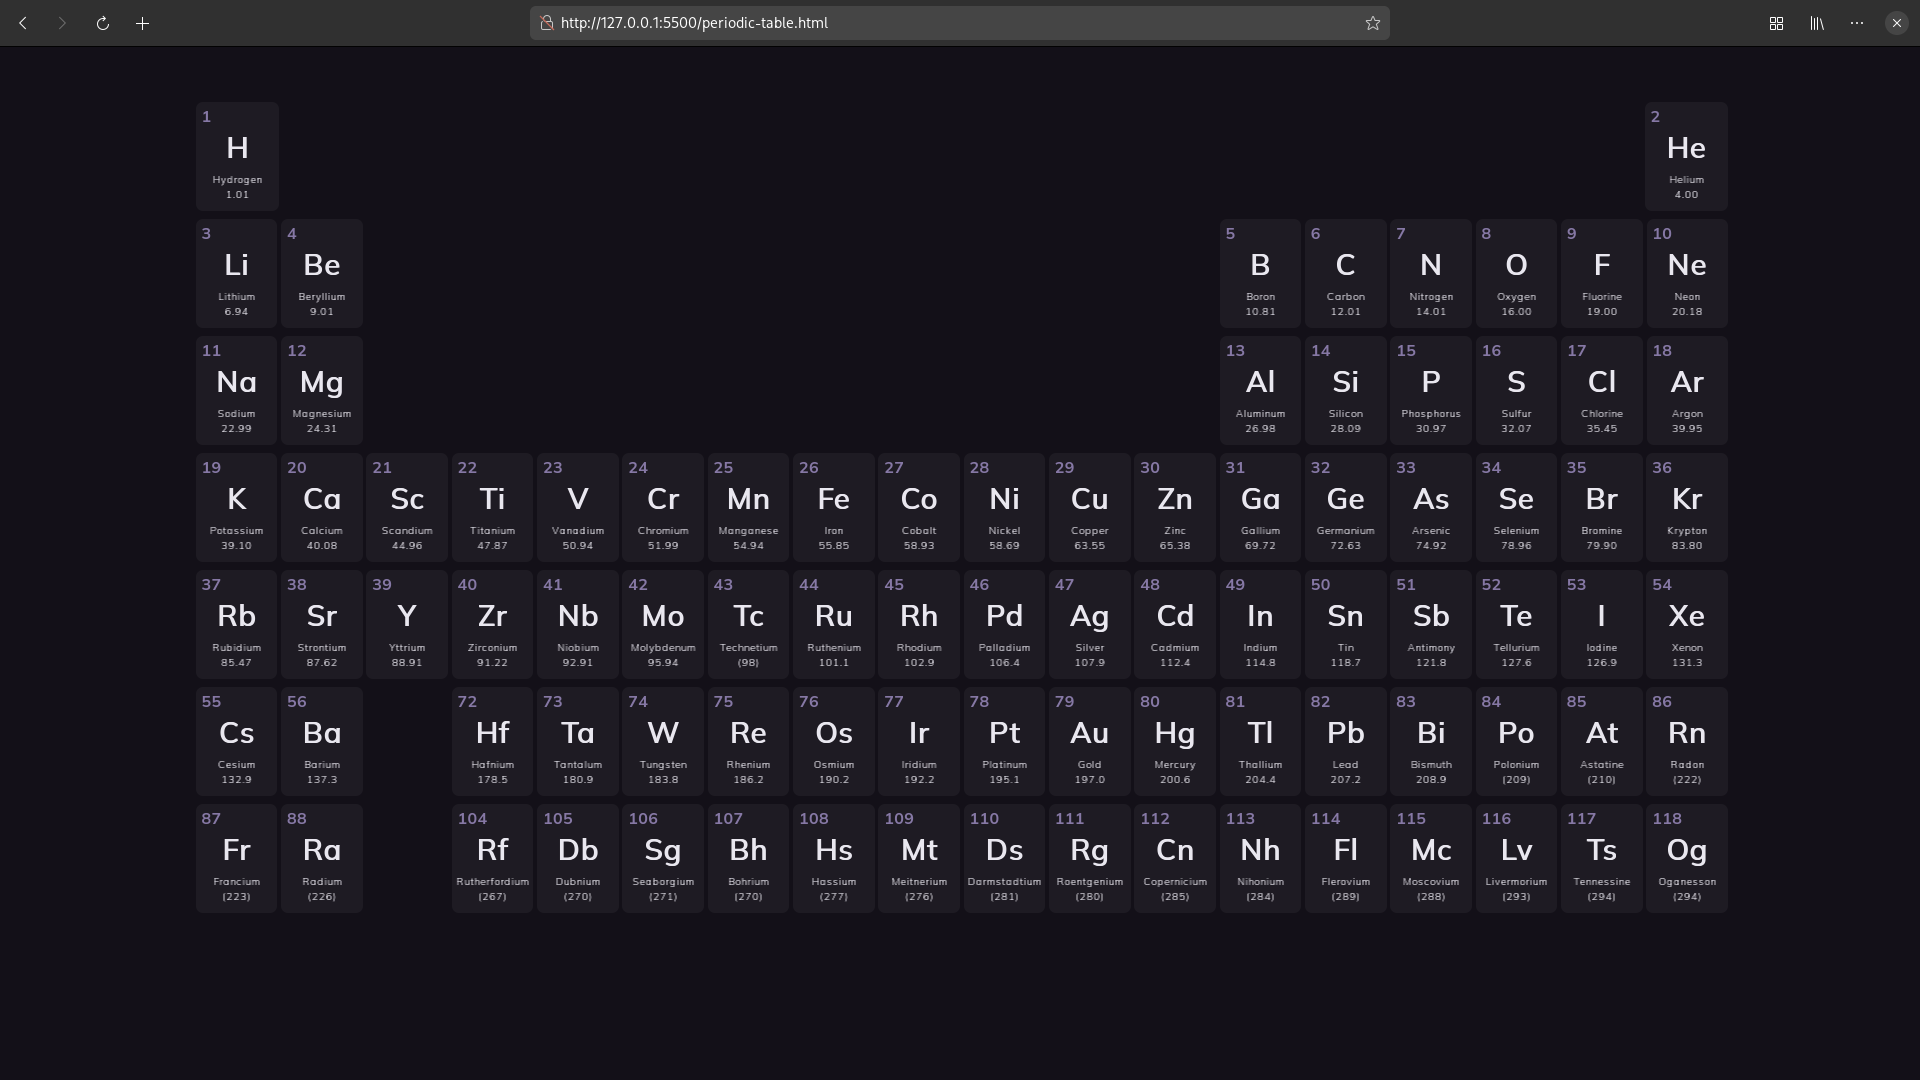
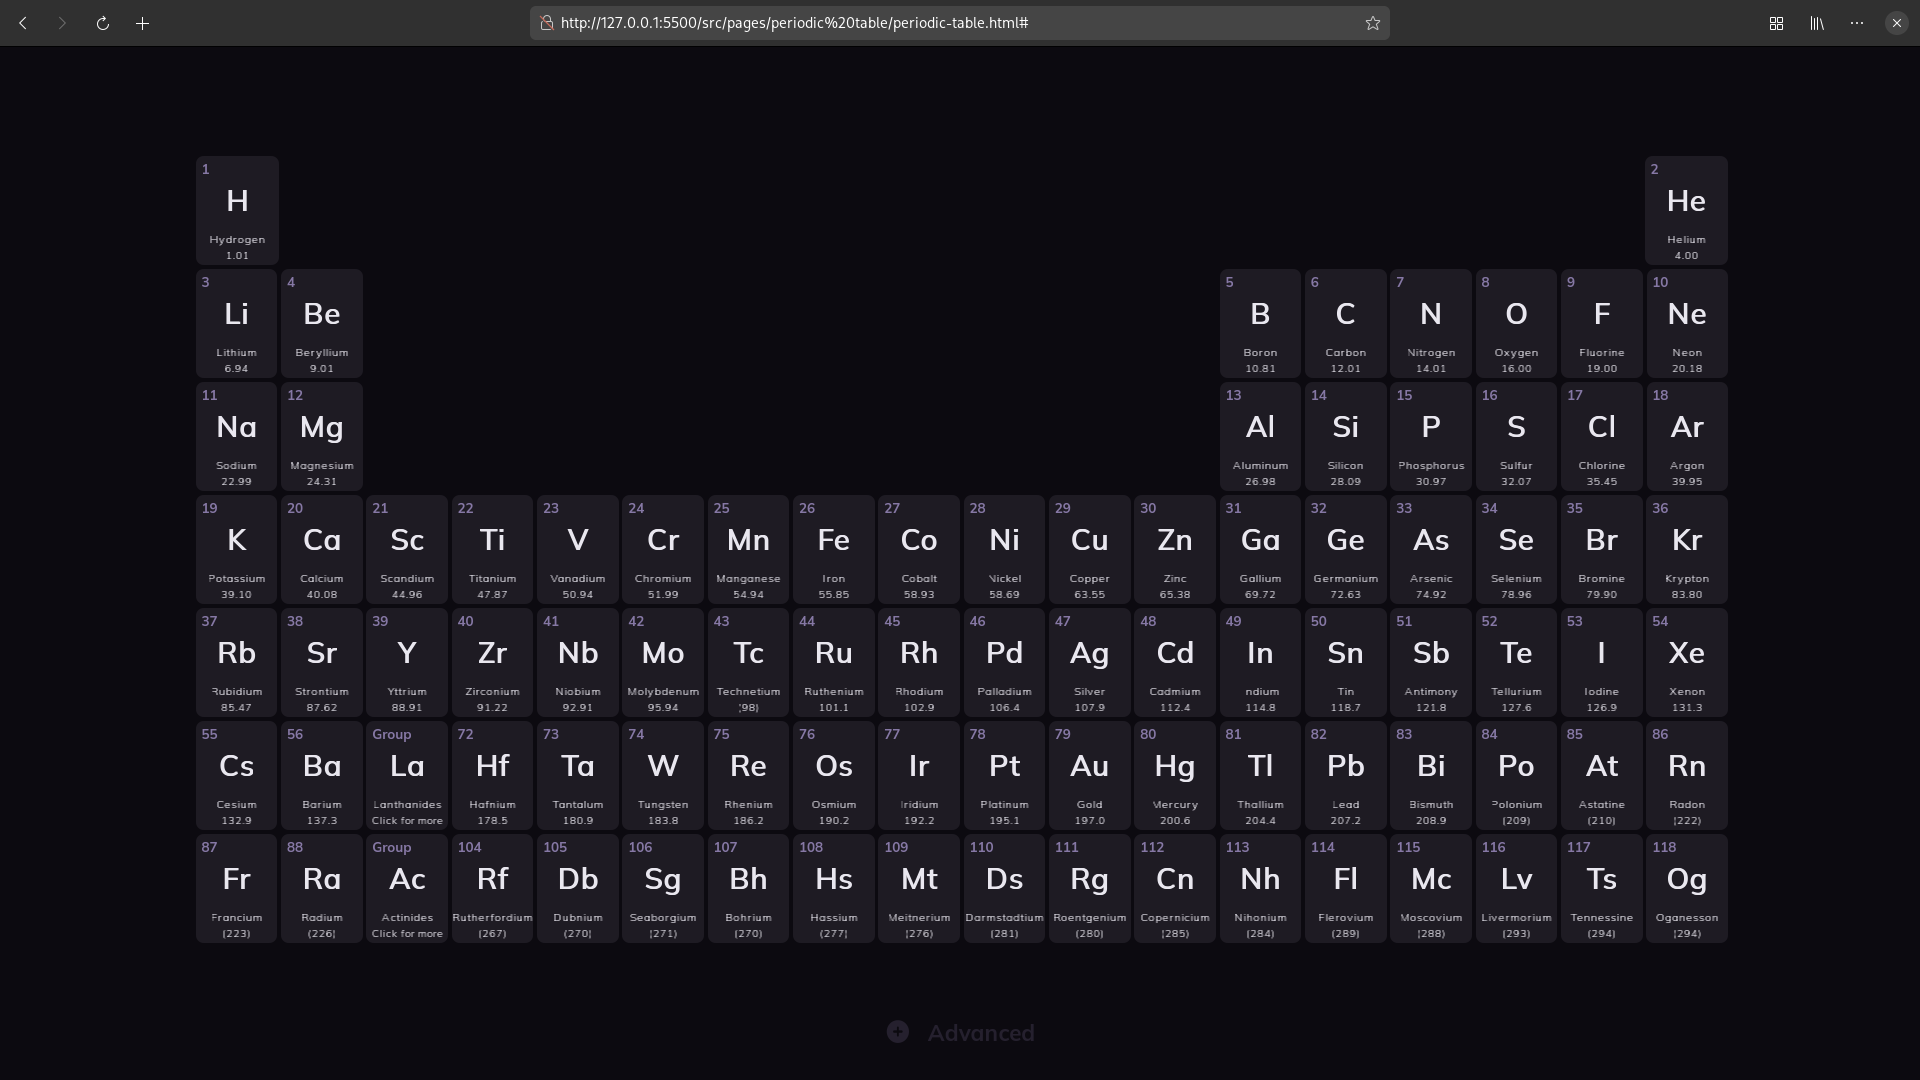
Info page completed

diff --git a/src/pages/info/info.html b/src/pages/info/info.html
@@ -11,27 +11,29 @@
 </head>
 <body>
     <section id="blogPanelL">
-        <div id="blogPanelLLapschoolButton">
+        <a href="../../index.html" id="blogPanelLLapschoolButton">
             <img src="../../images/logo.svg" alt="" id="blogPanelLLapschoolButtonImage">
             <h1 id="blogPanelLLapschoolButtonTitle">Lapschool</h1>
-        </div>
+        </a>
 
         <section id="blogPanelLPosts">
-            <p class="blogPanelLPostButton" onclick="DisplayPost(this)">About</p>
-            <p class="blogPanelLPostButton">Development</p>
-            <p class="blogPanelLPostButton">Socials and Contact</p>
-            <p class="blogPanelLPostButton">Patch Notes</p>
-            <p class="blogPanelLPostButton">FAQ</p>
+            <p class="blogPanelLPostButton active" onclick="DisplayPost(this)">About</p>
+            <p class="blogPanelLPostButton" onclick="DisplayPost(this)">Development</p>
+            <p class="blogPanelLPostButton" onclick="DisplayPost(this)">Socials and Contact</p>
+            <p class="blogPanelLPostButton" onclick="DisplayPost(this)">Patch Notes</p>
 
         </section>
     </section>
     <section id="blogPanelR">
         <h1>About</h1>
-        <p>Lapschool is an opensourced website that allows you to use a verity of tools
+        <p>Lapschool is an opensourced website that allows you to use a variety of tools
             for your school. Many paper tools (ex. Periodic Table) have been digitalized.
-            it is advised to those who use laptops to take notes and don't want to take
-            an piece of paper  with them to every class. Just you, your bag and your laptop
-            and that's it.
+            it is made for those who use laptops to take notes and don't want to take
+            an piece of paper  with them to every class. Just you, your bag and your laptop.
+            That's it.
+        </p>
+        <p>
+            It's completely <strong>free</strong> since is just a website.
         </p>
         <h2>Tools</h2>
         <h3>The Periodic Table</h3>
@@ -41,6 +43,22 @@
             element and the site will display some additional information about that element. I am not a chemist and all data is sourced
             from Wikipedia, so please report any mistakes you find.
         </p>
+        <img src="../../images/toolScreenshots/periodic-table.png" alt="">
+        <h4>Element inspect</h4>
+        <p>
+            Is a feature that allows you to click on an element and it will display some additional
+            things about the element. All elements are supported. All element data is sourced from
+            Wikipedia and shortened / modified by ChatGPT (3.0). Report all mistakes you find.
+        </p>
+        <h4>Advanced Settings</h4>
+        <p>
+            On the bottom screen is a button with additional features you can activate to make the
+            use easier. Settings are saved in the browser storage and will still
+            be applied on page reload.
+        </p>
+
+        <h4>Lanthanides and Actinoids submanu</h4>
+        <p>Display all La and Ac elements. All features are applied.</p>
     </section>
 </body>
 <script src="info.js"></script>

diff --git a/src/pages/info/posts.css b/src/pages/info/posts.css
@@ -1,44 +1,93 @@
 #blogPanelR h1 {
     color: var(--colorText);
 
-    font-family: Mulish;
-    font-size: 5vw;
+    font-family: Mulish-ExtraBold;
+    font-size: 4vw;
 
     width: 100%;
 
     padding-top: 1vh;
+    margin-bottom: 1vh;
+
+    border-bottom: 1px solid var(--colorSecundary);
 }
 #blogPanelR h2 {
     color: var(--colorText);
 
-    font-family: Mulish;
-    font-size: 2.5vw;
+    font-family: Mulish-ExtraBold;
+    font-size: 2vw;
 
     width: 100%;
 
-    padding-top: 1vh;
+    border-bottom: 1px solid var(--colorSecundary);
+
+    padding-top: 2vh;
 }
 #blogPanelR h3 {
     color: var(--colorText);
 
-    font-family: Mulish;
-    font-size: 1.5vw;
+    font-family: Mulish-ExtraBold;
+    font-size: 1.4vw;
 
     width: 100%;
 
-    padding-top: 1vh;
+    padding-top: 2vh;
+}
+#blogPanelR h4 {
+    color: var(--colorText);
+
+    font-family: Mulish;
+    font-size: 1vw;
+    font-weight: 700;
+
+    width: 100%;
+
+    padding-top: 2vh;
+}
+h1 i,
+h2 i,
+h3 i,
+h4 i {
+    font-size: 1vw;
+    color: var(--colorTextOff);
+    font-family: Mulish-ExtraLight;
 }
 #blogPanelR p {
-    color: var(--colorText);
+    color: #b9b8bf;
 
     font-family: Mulish-Light;
     font-size: 1vw;
+    font-weight: 400;
 
     width: 100%;
 
-    padding-bottom: 1vh;
+    padding-bottom: 2vh;
+}
+#blogPanelR li, 
+#blogPanelR ul {
+    color: #b9b8bf;
+
+    font-family: Mulish-Light;
+    font-size: 1vw;
+    font-weight: 400;
+
+    width: 100%;
+
+}
+#blogPanelR strong {
+    font-family: Mulish-ExtraBold;
+
 }
 #blogPanelR img {
+    color: var(--colorText);
+
+    width: 100%;
+
+    font-family: Mulish;
+    font-size: 1vw;
+
+}
+#blogPanelR a {
     color: var(--colorText);
 
     width: 100%;

diff --git a/src/pages/info/info.css b/src/pages/info/info.css
@@ -12,7 +12,7 @@ body {
     margin: 0 0 0 0;
     padding: 0 0 0 0;
 
-    overflow: hidden;
+    overflow-y: hidden;
 
 
     display: inline-flex;
@@ -31,7 +31,8 @@ body {
     height: 7vh;
     width: 80%;
 
-    cursor: default;
+    cursor: pointer;
+    text-decoration: none;
 
 }
 #blogPanelLLapschoolButtonImage {
@@ -56,6 +57,7 @@ body {
 
     font-family: Mulish;
     font-size: 1.3vw;
+    text-decoration: none;
 }
 #blogPanelLPosts {
     width: 80%;
@@ -85,14 +87,33 @@ body {
 
     cursor: pointer;
 }
+.active {
+    color: var(--colorBackground) !important;
+    background-color: var(--colorPrimary) !important;
+
+    cursor: default !important;
+}
+.active:hover {
+    color: var(--colorBackground) !important;
+    background-color: var(--colorPrimary) !important;
+
+    cursor: default !important;
+}
 
 
 
 #blogPanelR {
     position: relative;
-    width: 70vw;
+    width: 60vw;
     height: 90vh;
     margin: auto;
 
     margin-left: 6vw;
+
+    overflow: auto;
+    -ms-overflow-style: none;  /* IE and Edge */
+    scrollbar-width: none;  /* Firefox */
+}
+#blogPanelR::-webkit-scrollbar {
+    display: none;
 }

diff --git a/src/pages/info/info.js b/src/pages/info/info.js
@@ -1,6 +1,11 @@
 function DisplayPost (e) {
     var inner = event.target.innerHTML;
+    document.location.hash = inner;
     let string = inner.toLowerCase();
+
+    var posts = document.getElementsByClassName("active");
+    posts[0].classList.remove("active");
+    e.classList.add("active");
 
     let path = string + ".txt";
     var filePath = 'posts/' + path;
